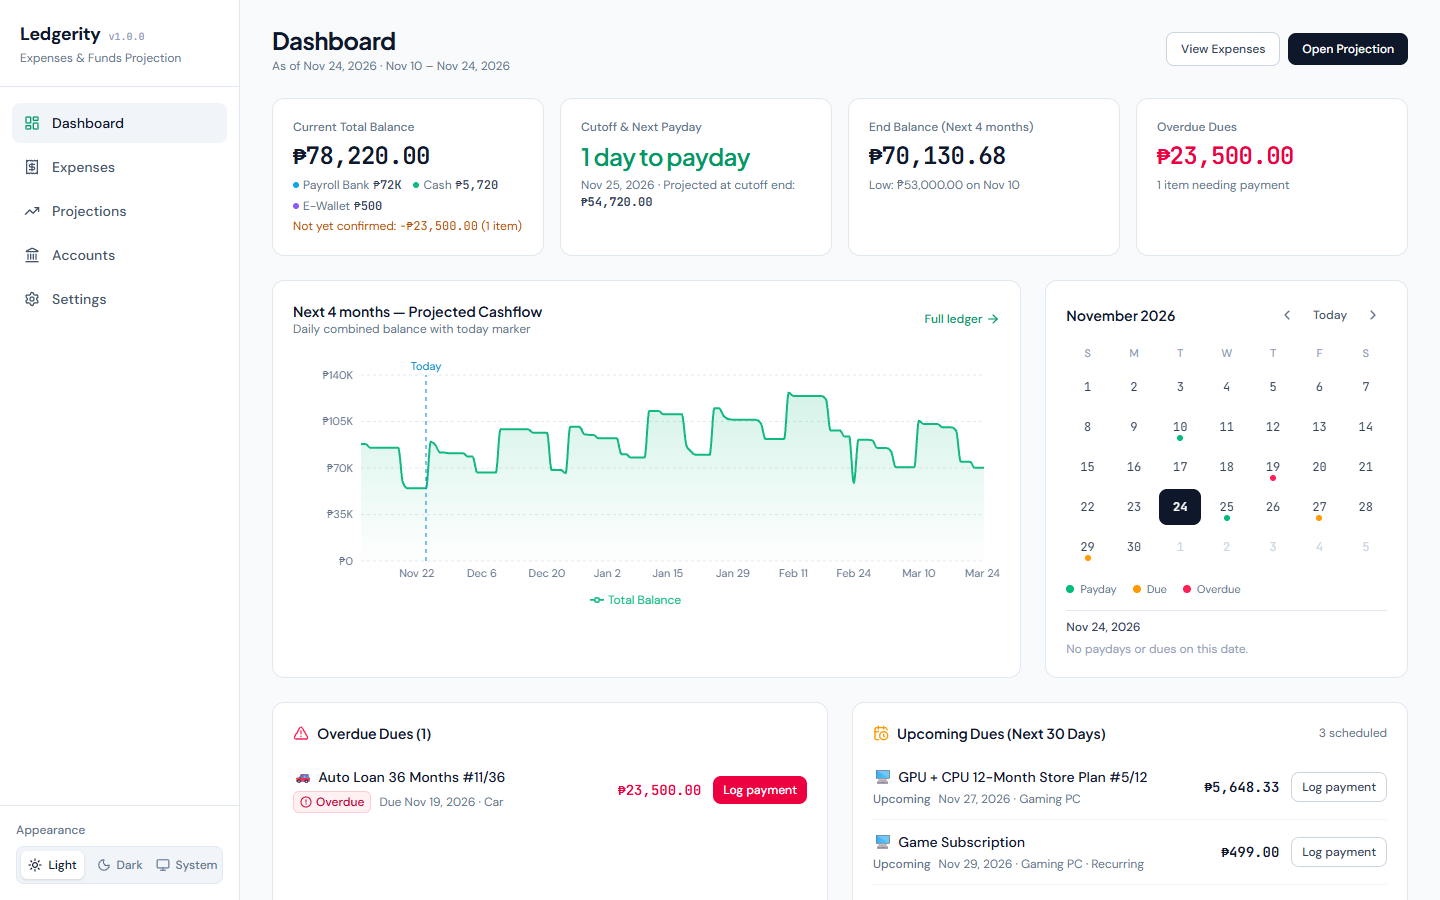
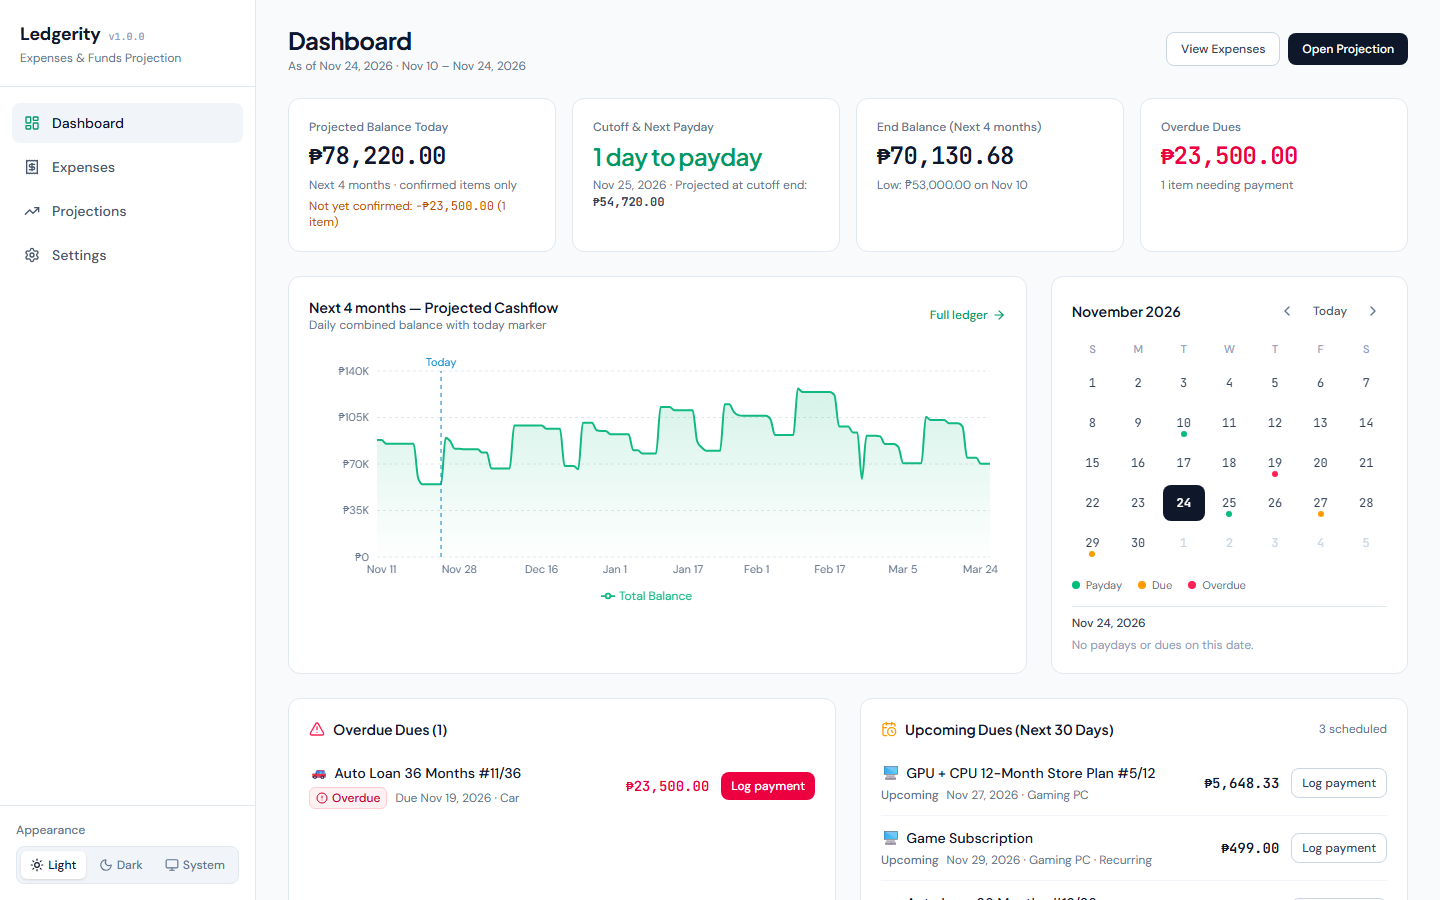
Update README

diff --git a/client/src/components/StatCard.tsx b/client/src/components/StatCard.tsx
@@ -16,6 +16,12 @@ interface StatCardProps {
 
 const looksLikeWords = (v: string) => /[A-Za-z]{3,}/.test(v);
 
+/**
+ * Width of one monospaced character in em (JetBrains Mono is 0.6em; a little extra covers
+ * tight tracking and currency symbols drawn from a fallback font).
+ */
+const MONO_CHAR_EM = 0.64;
+
 export const StatCard: React.FC<StatCardProps> = ({
   label,
   value,
@@ -39,9 +45,10 @@ export const StatCard: React.FC<StatCardProps> = ({
   const font = valueFont ?? (looksLikeWords(value) ? 'sans' : 'mono');
 
   return (
-    // Content is top-aligned so values line up across a row of cards, whatever the subtext
+    // Content is top-aligned so values line up across a row of cards, whatever the subtext.
+    // The card is a size container so amounts can shrink to fit narrow cards (see below).
     <div
-      className={`rounded-xl border border-slate-200 dark:border-slate-800 bg-white dark:bg-slate-900 p-4 sm:p-5 flex flex-col min-w-0 ${
+      className={`@container rounded-xl border border-slate-200 dark:border-slate-800 bg-white dark:bg-slate-900 p-4 sm:p-5 flex flex-col min-w-0 ${
         tone === 'planned' ? 'border-dashed border-violet-300 dark:border-violet-800' : ''
       } ${className}`}
     >
@@ -49,12 +56,25 @@ export const StatCard: React.FC<StatCardProps> = ({
         {label}
       </div>
       <div
-        className={`mt-1.5 font-semibold tracking-tight leading-tight break-words ${
-          font === 'mono' ? 'font-mono-num tabular-nums' : 'font-[family-name:var(--font-display)]'
+        className={`mt-1.5 font-semibold tracking-tight leading-tight ${
+          font === 'mono'
+            ? 'font-mono-num tabular-nums whitespace-nowrap'
+            : 'font-[family-name:var(--font-display)] break-words'
         } ${size === 'lg' ? 'text-2xl sm:text-3xl' : 'text-xl sm:text-2xl'} ${valueToneClass}`}
         title={value}
       >
-        {value}
+        {font === 'mono' ? (
+          // Amounts never wrap mid-number: keep the normal size, but shrink to the card width
+          <span
+            style={{
+              fontSize: `min(1em, calc(100cqi / ${(MONO_CHAR_EM * Math.max(value.length, 1)).toFixed(2)}))`,
+            }}
+          >
+            {value}
+          </span>
+        ) : (
+          value
+        )}
       </div>
       {subtext && (
         <div className="mt-1.5 text-xs text-slate-500 dark:text-slate-400 leading-snug">

diff --git a/README.md b/README.md
@@ -1,13 +1,15 @@
 # Ledgerity
 
-**Expenses & funds projection that runs on your own computer.**
+**Track what big purchases really cost, and project your balance from payday to payday. Runs on your own computer.**
 
 Ledgerity answers two questions:
 
-1. **What does this purchase *really* cost?** Break a car, a PC or a console into parts. Track installments (including interest, fees and late charges), recurring fees and payments, and see how much you've paid so far and how much is left.
-2. **How much money will I have, and when?** Project your balance from payday to payday with recurring income and bills. Mark items done as they happen, and test "what if" scenarios before you buy.
+1. **What has this big expense really cost me, and am I keeping up with it?** Break a car, a PC or a console into parts and follow each one: installments (with interest, fees and late charges), recurring costs and one-off payments. See the true total, what you've paid so far, what's left, and which dues are coming up or overdue.
+2. **How much money will I have, and when?** Start from an amount you enter (one lump sum, or several sources such as bank + cash on hand that add up) and project it forward with recurring income and bills, cutoff by cutoff. Dues from your expenses are included automatically, and you can test "what if" scenarios before you buy.
 
-Everything is stored in a single SQLite file on your machine. There are no accounts, no cloud, and no tracking.
+Ledgerity is not a bank-account or budgeting tracker. It doesn't hold your account balances; you tell it what you're starting with, and it works forward from there.
+
+Everything is stored in a single SQLite file on your machine. There is no sign-up, no cloud, and no tracking.
 
 ![Dashboard](docs/screenshots/dashboard-light.png)
 
@@ -27,21 +29,27 @@ Everything is stored in a single SQLite file on your machine. There are no accou
 ## Features
 
 **Expenses**
-- One page per expense. Parts can be **paid in full**, **installment**, **recurring** (insurance, subscriptions), **flexible** (pay any amount) or **planned** (wishlist).
-- **One installment plan can cover several parts** (e.g. GPU + CPU on one card plan). Down payment, interest, processing fees and late charges are all included in the true total.
-- Per-part share of interest, cost of financing, a due schedule with overdue alerts, and a payment log.
-- A **"Can I afford it?"** check for planned purchases, run against your projection.
+- One page per big expense, broken into parts. Each part is **paid in full**, **installment**, **recurring** (insurance, subscriptions), **flexible** (pay any amount, any time) or **planned** (not bought yet).
+- **Installment plans** can cover several parts (e.g. GPU + CPU on one card plan), with a down payment, interest (fixed amount, monthly add-on rate, or worked out from the monthly payment), processing fees and late charges. Dues can be monthly, twice a month, every 2 weeks or weekly.
+- **Totals that include everything:** paid so far, remaining, true total and cost of financing, plus each part's share of the interest.
+- A **due schedule** with overdue alerts, and a **payment log** where each payment is tied to a specific installment, charge or recurring occurrence, so you can check that every due was paid.
+- Charts for cost per part, paid vs. remaining, and cumulative payments over time.
+- **"Can I afford it?"** for planned parts: test the purchase against a projection, then add it to that projection or to a new scenario.
 
 **Funds projection**
-- Recurring items: weekly, semi-monthly (10th & 25th by default), monthly, yearly or custom. Weekend paydays move to the next business day.
-- View by **cutoff period** or as one **ledger**, with a running balance and a balance chart.
-- **Plan vs. actual**: tick items as done, enter the real amount, or set your actual balance.
-- **Dues from Expenses show up automatically**, and you can exclude any of them.
-- **Starting balance from one lump sum or several sources** (e.g. bank + cash on hand) that add up to the total, editable any time.
-- **Scenarios**: duplicate a projection, change it, and compare side by side.
+- **Starting balance** from one lump sum or several named sources that add up to the total. You can edit it at any time.
+- **Recurring income and bills:** once, daily, weekly, every 2 weeks, twice a month, monthly or yearly, with an optional end date or number of times. Weekend dates can stay as they are or move to the previous or next business day.
+- View by **cutoff period** (the 10th and 25th by default) or as one **ledger**, with a running balance and a chart marking paydays and big outflows.
+- **Plan vs. actual:** tick items as done, enter the real amount, skip or move a single occurrence, or set your actual total balance on a date.
+- **Dues from Expenses show up automatically.** Overdue ones are carried to the start of the projection, and you can exclude any of them.
+- **Scenarios:** duplicate a projection, change it, and compare up to three side by side.
+
+**Dashboard**
+- Balance today according to your main projection (confirmed items only, with unconfirmed ones shown separately), days to the next payday, and the projected end balance.
+- Overdue dues and dues in the next 30 days, each with a one-click "Log payment", plus a calendar and recent payments.
 
 **App**
-- Dashboard, light/dark theme, and a layout that works on phones.
+- Light/dark theme and a layout that works on phones.
 - Automatic daily backups, one-click restore, JSON export/import and CSV export.
 - Optional access from your phone over your home Wi-Fi.
 
